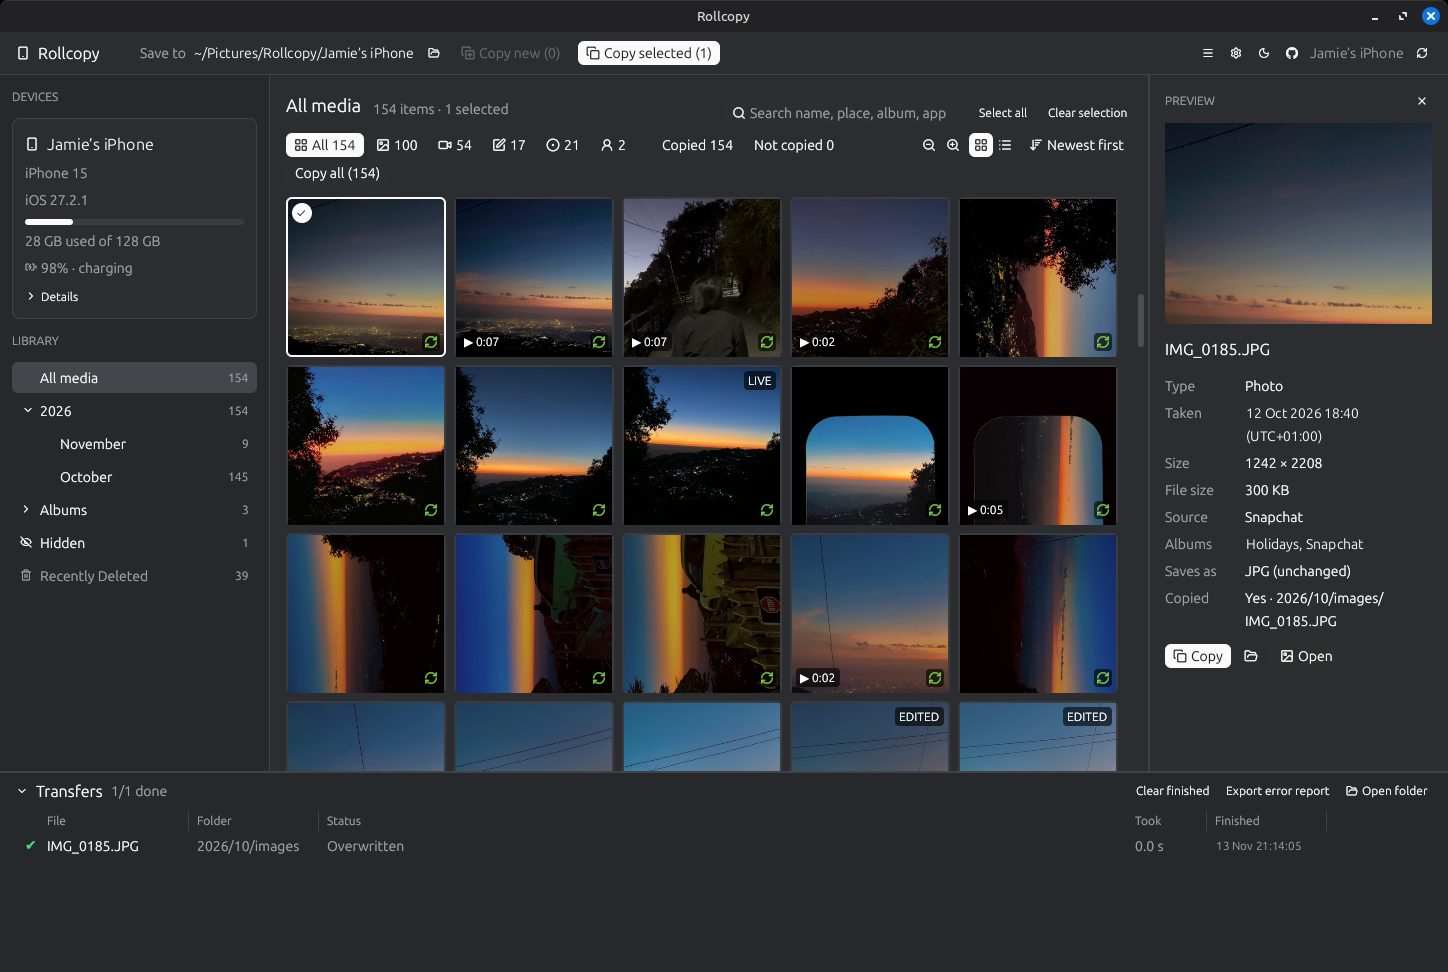
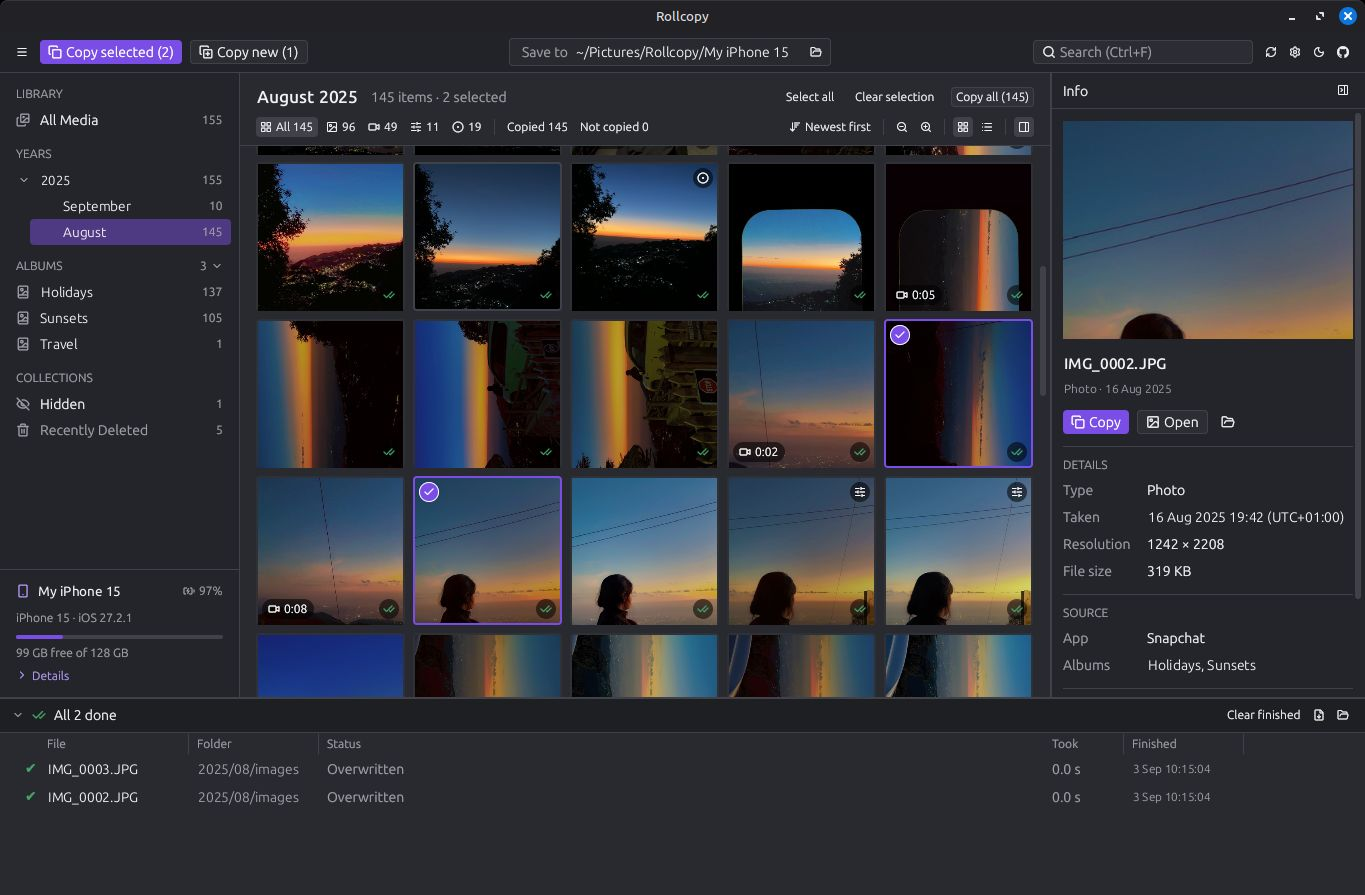
README: screenshot of the redesigned interface

diff --git a/README.md b/README.md
@@ -17,7 +17,7 @@ Plug in the phone, tap **Trust**, pick what you want, and Rollcopy copies it to
 `~/Pictures/Rollcopy/<phone name>/YYYY/MM/images|videos/`, converting HEIC to JPG and MOV to MP4
 on the way.
 
-![Rollcopy on Linux Mint: an iPhone photo library by year and month with Hidden and Recently Deleted, a thumbnail grid with copied badges and filters, the preview pane with photo details, and the transfer queue](.github/screenshot.jpg?v=1)
+![Rollcopy on Linux Mint in dark mode: a sidebar with the library by year and month, albums, Hidden and Recently Deleted and the phone at the bottom; a thumbnail grid with filter toggles, copied and Live badges and two selected photos; the info pane with photo details; and the finished transfers](.github/screenshot.jpg?v=2)
 
 > **Status:** early (0.5.0). Linux only. Tested on Linux Mint 22 (Cinnamon, X11) with iOS 27, and on
 > Ubuntu 26.04 (GNOME, Wayland) in a virtual machine.
